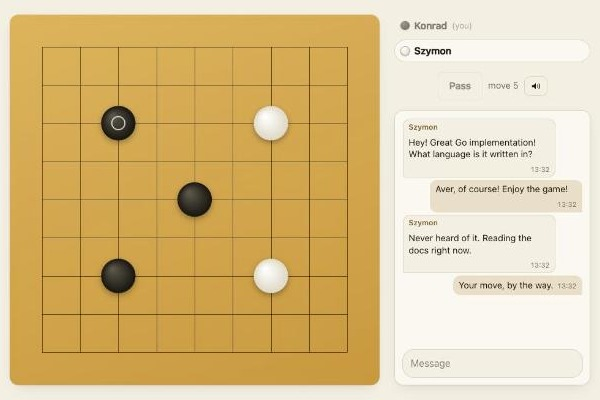
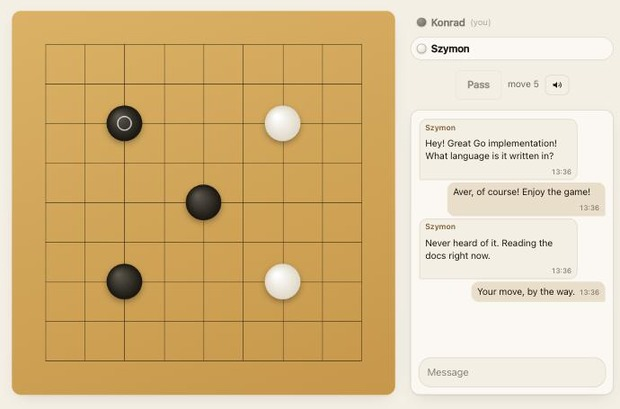
fix: no status line at all while a game is being played
"Your move." appeared on your turn and vanished on your opponent's, and the
chat below it moved by a line every time either player put down a stone. The
seats already carry whose turn it is, so the line was paying for itself twice.

Waiting and finished still say something, because those are states you cannot
read off the board.

diff --git a/web/static/game.js b/web/static/game.js
@@ -359,11 +359,9 @@ function render() {
     const black = state.blackScore, white = state.whiteScore;
     say(black === white ? 'A draw.' : (black > white ? state.blackName : state.whiteName) + ' wins.',
         'Game over.');
-  } else if (myTurn()) {
-    say('', 'Your move.');
   } else {
-    // Whose turn it is already shows on the seats, so this line says nothing
-    // and collapses out of the way.
+    // Whose turn it is already shows on the seats. A line here would appear
+    // and vanish every turn, shoving the chat up and down with it.
     say('');
   }
 

diff --git a/README.md b/README.md
@@ -14,7 +14,7 @@ and play starts. Colours are drawn at random, the board is 9×9, and every game
 lives in memory only — restarting the server forgets them all.
 
 <p align="center">
-  <img src="docs/screenshot.jpg" width="600"
+  <img src="docs/screenshot.jpg" width="620"
        alt="Konrad and Szymon five moves into a game, chatting beside the board">
 </p>
 
